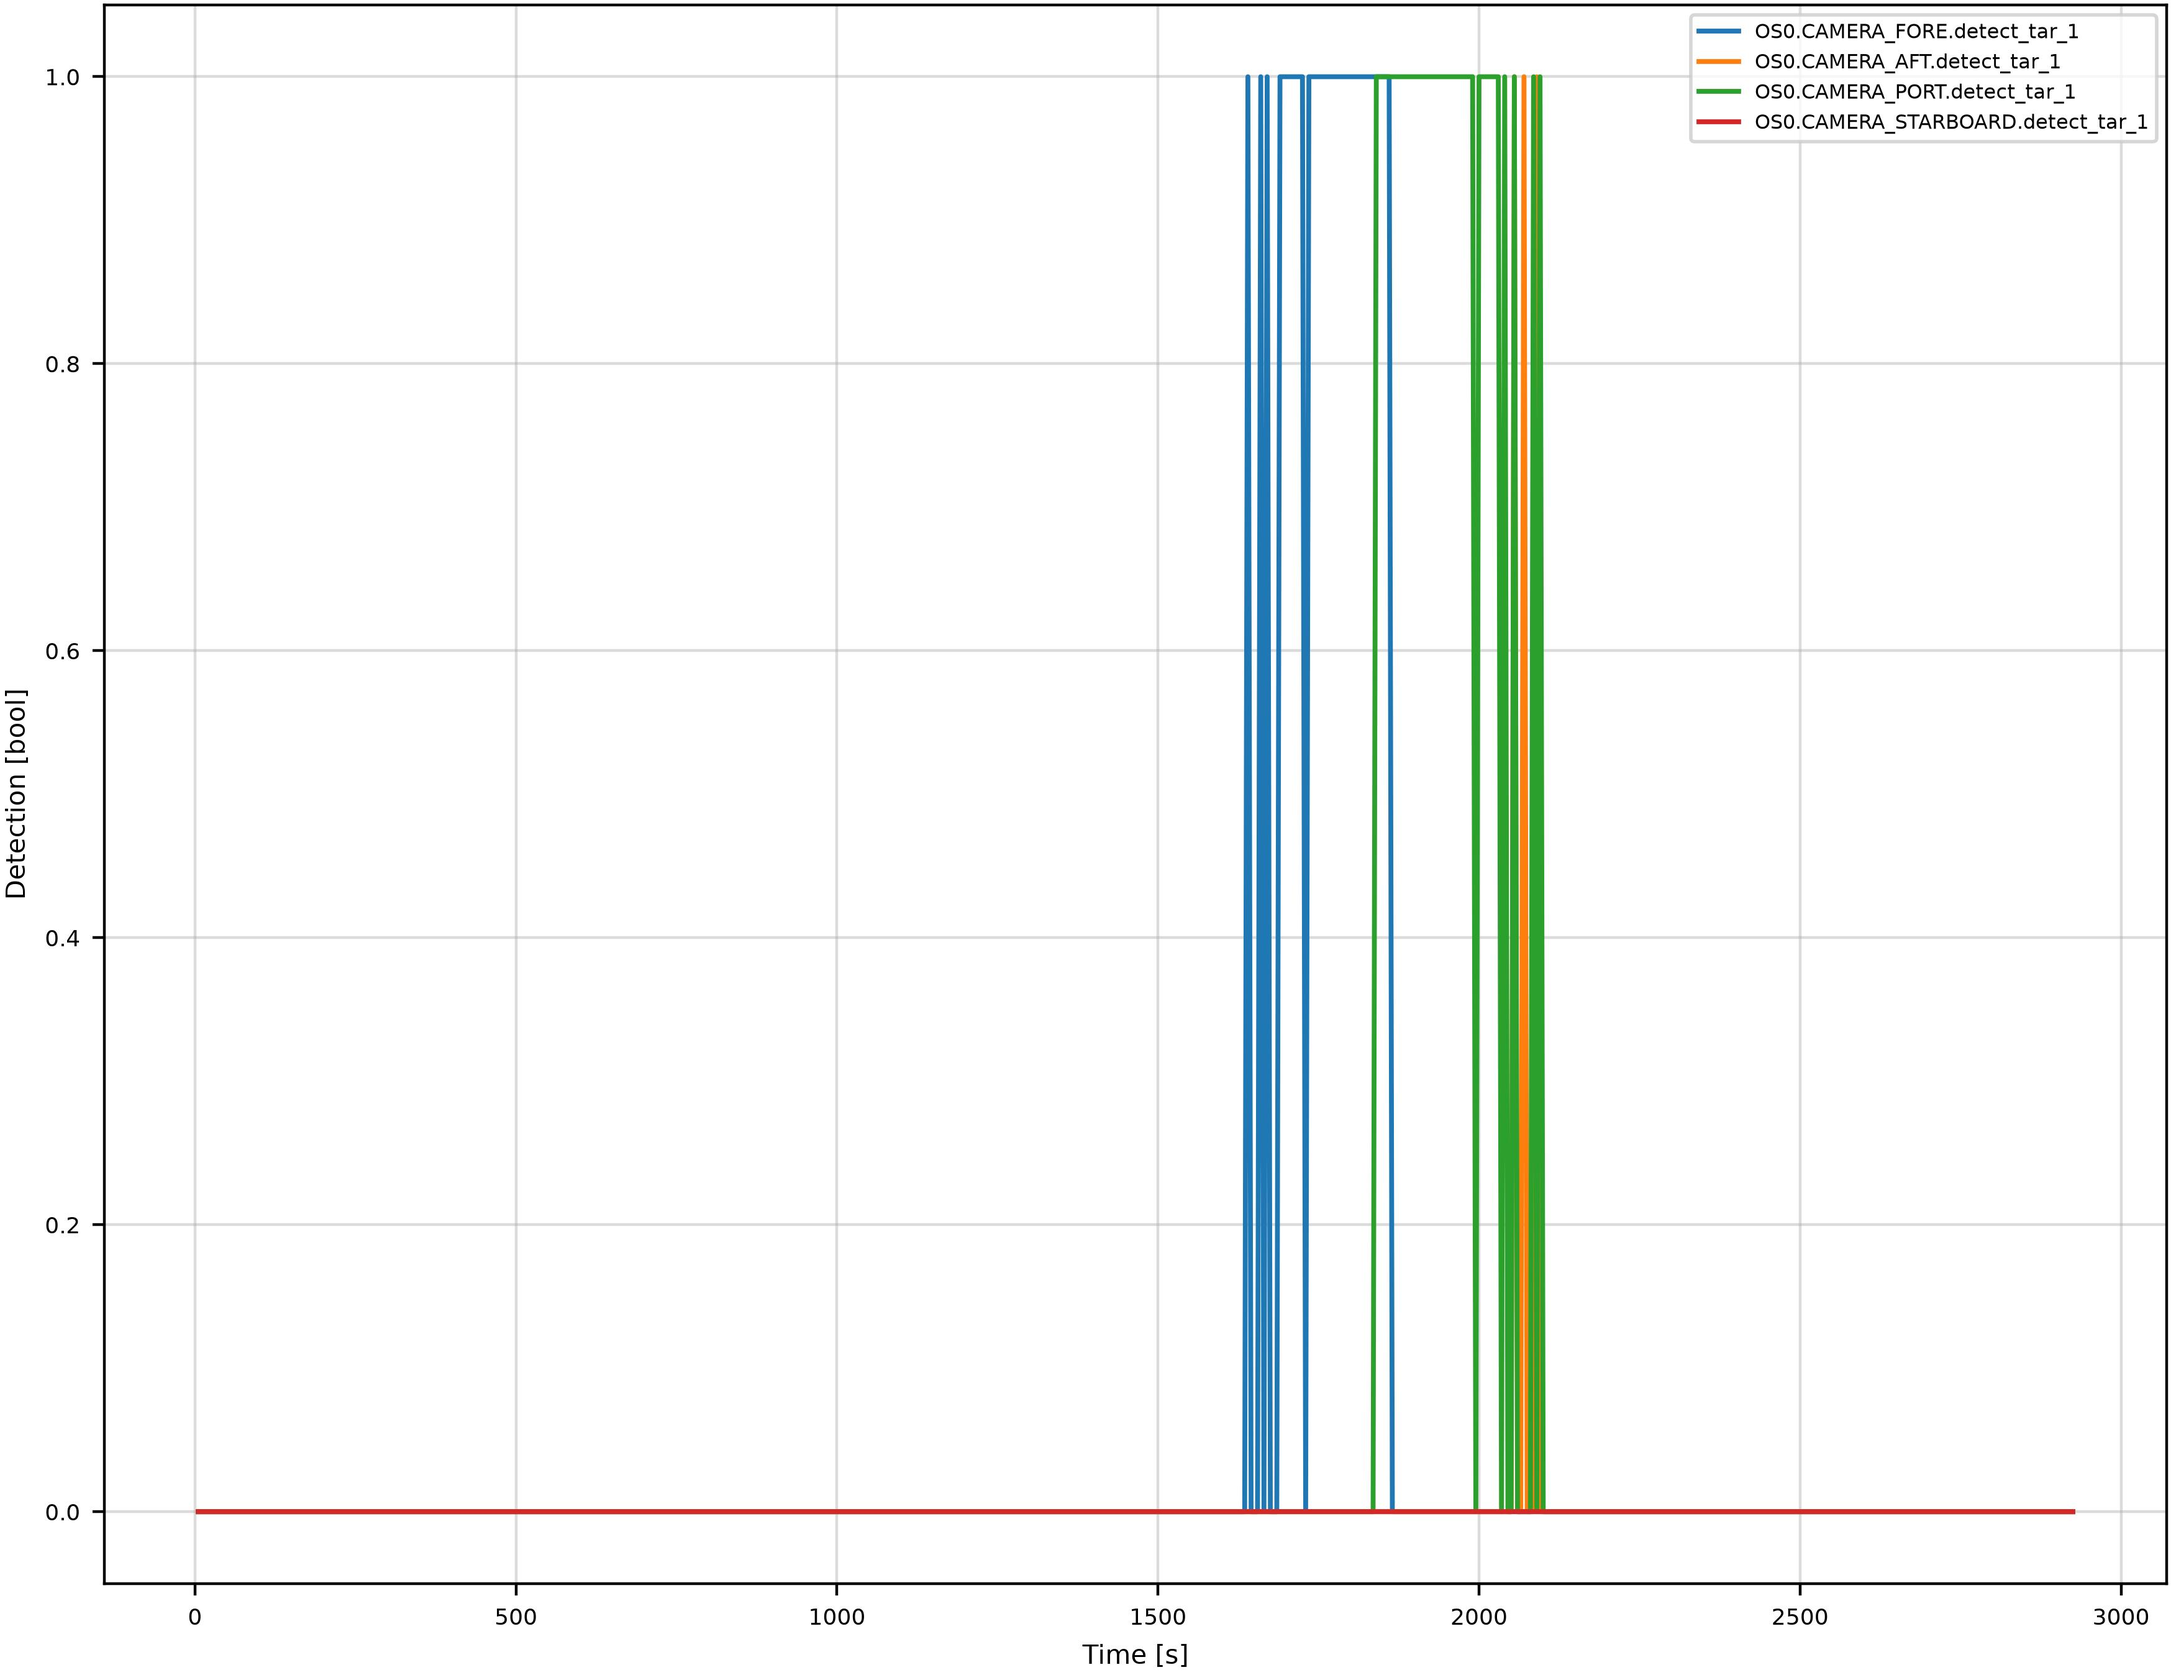
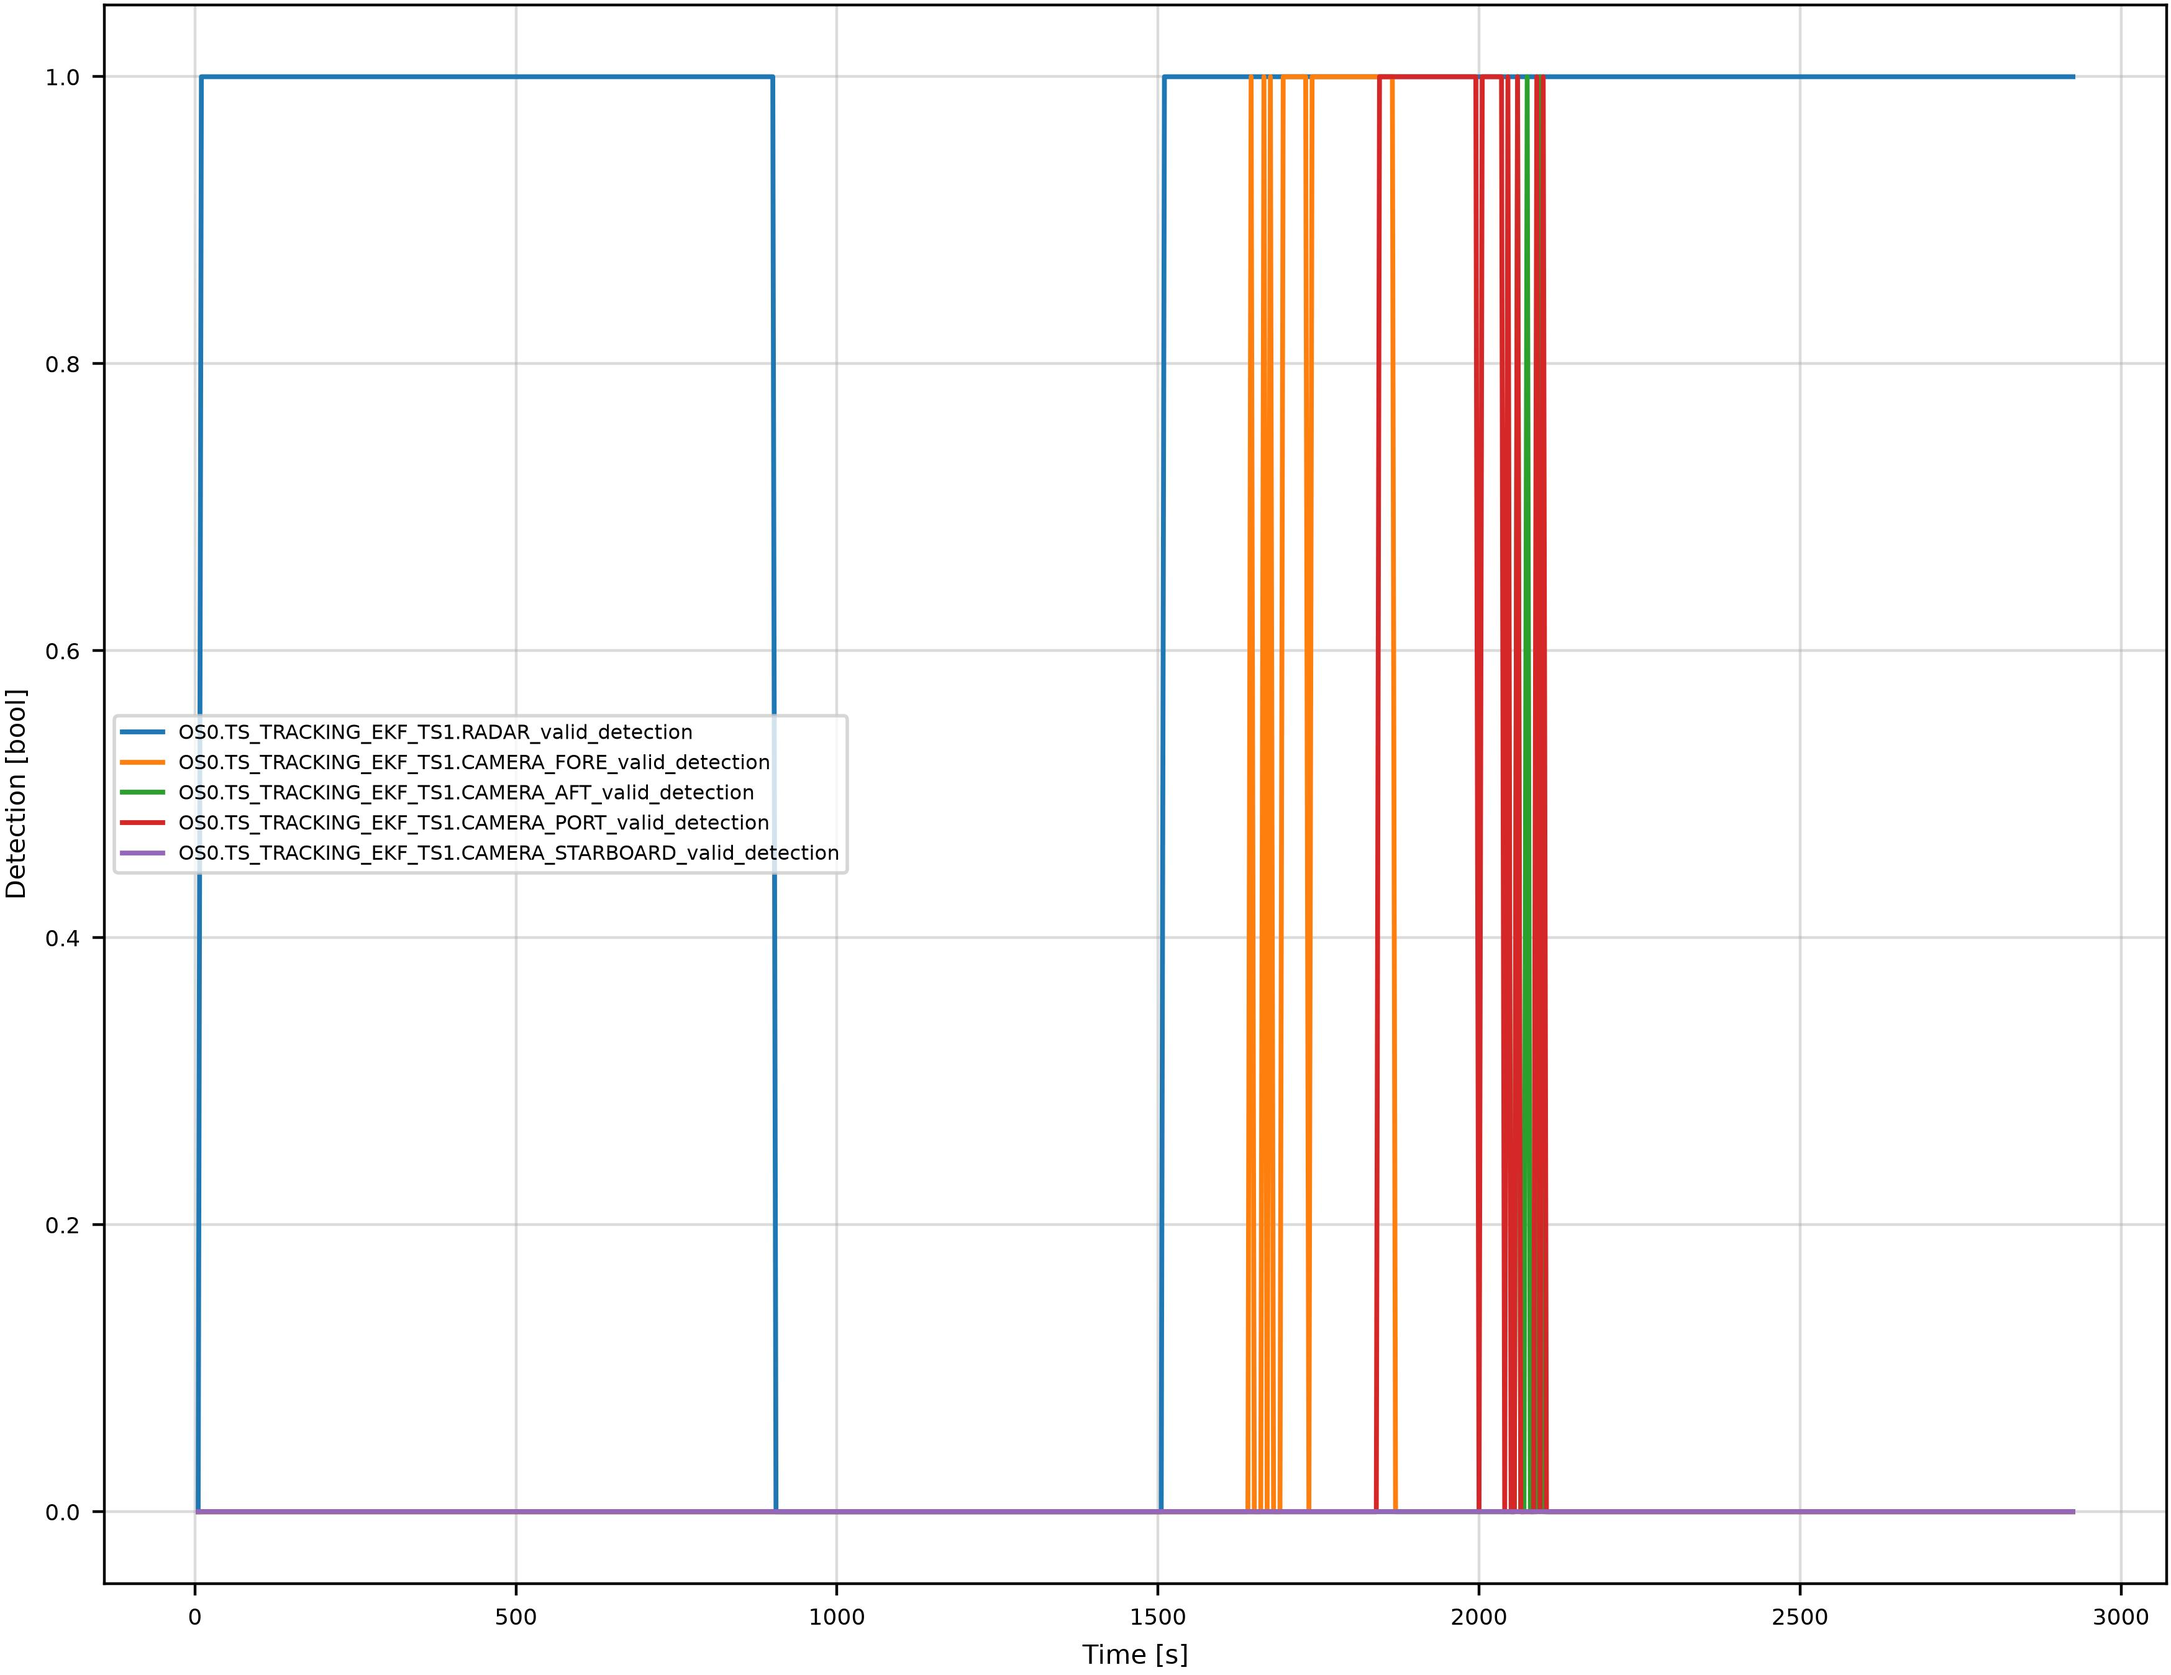
test: Retrieve newer results

diff --git a/FMU_scripts/complex_ship/target_ship_tracking_ekf_fmu.py b/FMU_scripts/complex_ship/target_ship_tracking_ekf_fmu.py
@@ -108,6 +108,12 @@ class TargetShipTrackingEKF(Fmi2Slave):
         self.estimated_vn                       = 0.0
         self.estimated_ve                       = 0.0
         
+        self.RADAR_valid_detection              = False
+        self.CAMERA_FORE_valid_detection        = False
+        self.CAMERA_AFT_valid_detection         = False
+        self.CAMERA_PORT_valid_detection        = False
+        self.CAMERA_STARBOARD_valid_detection   = False
+        
         ## Internal variables
         self._precomputed                       = False
         # State
@@ -216,6 +222,12 @@ class TargetShipTrackingEKF(Fmi2Slave):
         self.register_variable(Real("estimated_e", causality=Fmi2Causality.output))
         self.register_variable(Real("estimated_vn", causality=Fmi2Causality.output))
         self.register_variable(Real("estimated_ve", causality=Fmi2Causality.output))
+        
+        self.register_variable(Boolean("RADAR_valid_detection", causality=Fmi2Causality.output, variability=Fmi2Variability.discrete))
+        self.register_variable(Boolean("CAMERA_FORE_valid_detection", causality=Fmi2Causality.output, variability=Fmi2Variability.discrete))
+        self.register_variable(Boolean("CAMERA_AFT_valid_detection", causality=Fmi2Causality.output, variability=Fmi2Variability.discrete))
+        self.register_variable(Boolean("CAMERA_PORT_valid_detection", causality=Fmi2Causality.output, variability=Fmi2Variability.discrete))
+        self.register_variable(Boolean("CAMERA_STARBOARD_valid_detection", causality=Fmi2Causality.output, variability=Fmi2Variability.discrete))
         
     def _wrap_to_pi(self, a):
         return (a + np.pi) % (2*np.pi) - np.pi
@@ -614,23 +626,29 @@ class TargetShipTrackingEKF(Fmi2Slave):
             # Sensor corrections
             # ========================================
             # Radar
-            if self.RADAR_valid and self.RADAR_detection:
+            self.RADAR_valid_detection = self.RADAR_valid and self.RADAR_detection
+            if self.RADAR_valid_detection:
+                self.RADAR_valid_detection = True
                 self.update_radar()
             
             # Fore Camera
-            if self.CAMERA_FORE_valid and self.CAMERA_FORE_detection:
+            self.CAMERA_FORE_valid_detection = self.CAMERA_FORE_valid and self.CAMERA_FORE_detection
+            if self.CAMERA_FORE_valid_detection:
                 self.update_camera(orientation="fore")
             
             # Aft Camera
-            if self.CAMERA_AFT_valid and self.CAMERA_AFT_detection:
+            self.CAMERA_AFT_valid_detection = self.CAMERA_AFT_valid and self.CAMERA_AFT_detection
+            if self.CAMERA_AFT_detection:
                 self.update_camera(orientation="aft")
             
             # Port Camera
-            if self.CAMERA_PORT_valid and self.CAMERA_PORT_detection:
+            self.CAMERA_PORT_valid_detection = self.CAMERA_PORT_valid and self.CAMERA_PORT_detection
+            if self.CAMERA_PORT_valid_detection:
                 self.update_camera(orientation="port")
             
             # Starboard Camera
-            if self.CAMERA_STARBOARD_valid and self.CAMERA_STARBOARD_detection:
+            self.CAMERA_STARBOARD_valid_detection = self.CAMERA_STARBOARD_valid and self.CAMERA_STARBOARD_detection
+            if self.CAMERA_STARBOARD_valid_detection:
                 self.update_camera(orientation="starboard")
                 
             # ========================================
@@ -651,5 +669,11 @@ class TargetShipTrackingEKF(Fmi2Slave):
             self.estimated_e    = self.x[1]
             self.estimated_vn    = self.x[2]
             self.estimated_ve    = self.x[3]
+            
+            self.RADAR_valid_detection              = False
+            self.CAMERA_FORE_valid_detection        = False
+            self.CAMERA_AFT_valid_detection         = False
+            self.CAMERA_PORT_valid_detection        = False
+            self.CAMERA_STARBOARD_valid_detection   = False
         
         return True

diff --git a/FMU_scripts/complex_ship/simple_radar_doppler_fmu.py b/FMU_scripts/complex_ship/simple_radar_doppler_fmu.py
@@ -148,6 +148,9 @@ class DopplerRADAR(Fmi2Slave):
             p_own                  = np.array([self.own_north, self.own_east], dtype=float)
             v_own                  = self.own_measured_speed * np.array([np.cos(self.own_yaw_angle), np.sin(self.own_yaw_angle)])
             
+            # Measurement valid flag
+            self.measurement_valid = True
+            
             for i in range (c):
                 idx = i + 1
                 
@@ -226,7 +229,7 @@ class DopplerRADAR(Fmi2Slave):
                 measured_bearing    = self._wrap_to_pi(true_bearing + bearing_noise)
                 
                 if detected:
-                    setattr(self, f"detect_tar_{idx}", True)
+                    setattr(self, f"detect_tar_{idx}", True and self.measurement_valid)
                     setattr(self, f"tar_{idx}_range", measured_range)
                     setattr(self, f"tar_{idx}_range_rate", measured_range_rate)
                     setattr(self, f"tar_{idx}_bearing", measured_bearing)
@@ -235,8 +238,7 @@ class DopplerRADAR(Fmi2Slave):
                     setattr(self, f"tar_{idx}_range", 1e9)
                     setattr(self, f"tar_{idx}_range_rate", 0.0)
                     setattr(self, f"tar_{idx}_bearing", 0.0)
-            
-            self.measurement_valid  = True
+                    
         
         except Exception as e:
             # IMPORTANT: do not crash host

diff --git a/FMU_scripts/complex_ship/simple_stereo_camera_fmu.py b/FMU_scripts/complex_ship/simple_stereo_camera_fmu.py
@@ -141,6 +141,9 @@ class StereoCameraSensor(Fmi2Slave):
             ### INITIATE
             p_own                  = np.array([self.own_north, self.own_east], dtype=float)
             
+            self.camera_position_out    = self.camera_position
+            self.measurement_valid      = True
+            
             for i in range (c):
                 idx = i + 1
                 
@@ -230,16 +233,13 @@ class StereoCameraSensor(Fmi2Slave):
                 measured_bearing    = self._wrap_to_pi(true_bearing + bearing_noise)
                 
                 if detected:
-                    setattr(self, f"detect_tar_{idx}", True)
+                    setattr(self, f"detect_tar_{idx}", True and self.measurement_valid)
                     setattr(self, f"tar_{idx}_range", measured_range)
                     setattr(self, f"tar_{idx}_bearing", measured_bearing)
                 else:
                     setattr(self, f"detect_tar_{idx}", False)
                     setattr(self, f"tar_{idx}_range", 1e9)
                     setattr(self, f"tar_{idx}_bearing", 0.0)
-            
-            self.camera_position_out    = self.camera_position
-            self.measurement_valid      = True
         
         except Exception as e:
             # IMPORTANT: do not crash host

diff --git a/EBASTv2_MBSE_train/simulate_trained_EBASTv2_MBSE.py b/EBASTv2_MBSE_train/simulate_trained_EBASTv2_MBSE.py
@@ -127,7 +127,7 @@ if simulate:
     # env.set_for_evaluation()
     
     # Reset the trained model
-    case_idx    = 0
+    case_idx    = 5
     config_idx  = 0
     seed        = None
     obs, _      = env.reset(seed=seed, specific_case_idx=case_idx, specific_config_idx=config_idx)
@@ -289,11 +289,11 @@ if simulate:
             # (["OS0.CAMERA_STARBOARD.tar_1_range"], f"{case_idx}_OS0_cams_range_t1.jpg"),
             # (["OS0.CAMERA_STARBOARD.tar_1_bearing"], f"{case_idx}_OS0_cams_beta_t1.jpg"),
             ([
-                # "OS0.RADAR.detect_tar_1",
-                "OS0.CAMERA_FORE.detect_tar_1", 
-                "OS0.CAMERA_AFT.detect_tar_1",
-                "OS0.CAMERA_PORT.detect_tar_1",
-                "OS0.CAMERA_STARBOARD.detect_tar_1"
+                "OS0.TS_TRACKING_EKF_TS1.RADAR_valid_detection",
+                "OS0.TS_TRACKING_EKF_TS1.CAMERA_FORE_valid_detection",
+                "OS0.TS_TRACKING_EKF_TS1.CAMERA_AFT_valid_detection",
+                "OS0.TS_TRACKING_EKF_TS1.CAMERA_PORT_valid_detection",
+                "OS0.TS_TRACKING_EKF_TS1.CAMERA_STARBOARD_valid_detection",
                 ],
              f"{case_idx}_OS0_sensors_detection_t1.jpg"),
             
